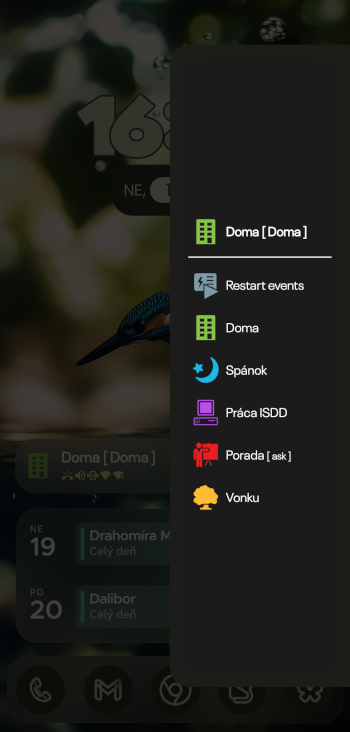
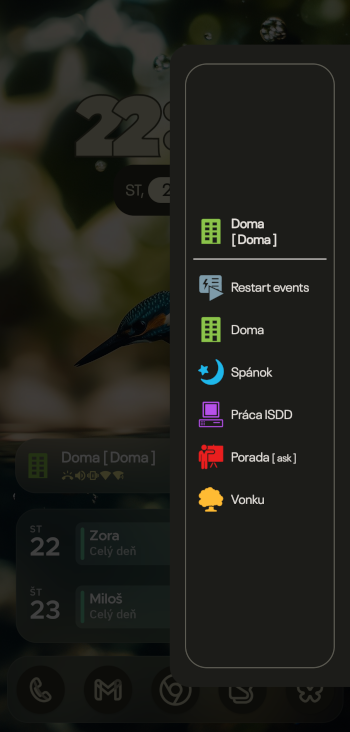
New version 7.0.2.

diff --git a/docs/FDroid_ChangeLog_SK.html b/docs/FDroid_ChangeLog_SK.html
@@ -7,43 +7,42 @@
 
 <h1 id="changelog">PhoneProfilesPlus Zoznam zmien</h1>
 
-<h2 id="version2">Verzia: 7.0.1</h2>
+<h2 id="version2">Verzia: 7.0.2</h2>
 
 <ul lang="en">
-    <li>Add: "Force stop applications" with root.</li>
-    <li>Add: "Use dynamic color for indicator" to draw indicators with dynamic color if global "Use dynamic colors" is disabled. Widget One row and List.</li>
-    <li>Add: New parameter into Settings/Editor: "Hide event details".</li>
-    <li>Add: New parameter into Settings/Editor: "Hide event details for "Start order"".</li>
-    <li>Change: Removed splash screen at start of Editor.</li>
-    <li>Change: Acronyms strings changed to icons.</li>
-    <li>Change: "Screen timeout" profile parameter for OnePlus without Shizuku.</li>
-    <li>Change: Install PPP from installed store also for critical PPP version.</li>
-    <li>Change: Removed Twitter/X from support menus and README.md.</li>
-    <li>Change: Added Mastodon into README.md</li>
-    <li>Change: Added icons in "Support" menu items.</li>
-    <li>Change: Added icons in "Check app. releases" menu items.</li>
-    <li>Change: Allow "Notification sensor" when only application is configured (not needed is "Check text").</li>
-    <li>Change: "Notification sensor", fixed "Check text".</li>
-    <li>Change: "Switch profiles" into icon widget when are configured only 2 profiles.</li>
-    <li>Change: Delay for start of BT connected devices detector when is started from broadcast.</li>
-    <li>Change: Increased size of preference titles.</li>
-    <li>Change: Long click to Tasker command in Important info -> direct copy to clipboard.</li>
-    <li>Change: Reverted back height of PPP notification for Samsung devices in Amdroid 14+</li>
-    <li>Change: "Activity log"/"Help" as activity.</li>
-    <li>Change: Widgets: Rounded corners radius + opaqueness of background for API >= 31.</li>
-    <li>Change: Widgets: Added parameter "Use dynamic colors" for preferences indicator when global "Dynamic colors" is disabled.</li>
-    <li>Change: Call "Request ignore battery optimizations" from Settings/System/Battery optimization, if is not set.</li>
-    <li>Change: Vertically center of profile name in Activator header, if preferences indicator is disabled.</li>
-    <li>Change: Better detection of drag handle click.</li>
-    <li>Change: Added background dim for popup windows.</li>
-    <li>Change: Small changes in GUI.</li>
-    <li>Fix: "Call screening" sensor block calls, even when event is not running.</li>
-    <li>Fix: Animation of open/close dialogs.</li>
-    <li>Fix: Bluetooth enable/disable.</li>
-    <li>Fix: NFC enable/disable not working in Android 14.</li>
-    <li>Fix: Color of preference values in PPP Settings.</li>
-    <li>Fix: Maybe fixed bad notification exception at first PPP start.</li>
-    <li>Fix: Popup windows in API level < 30.</li>
+    <li>Add: Panel widget. Removed Samsung Edge panel.</li>
+    <li>Change: Call of BT detector at screen on.</li>
+    <li>Change: Better BT connected devices detection for disconnection.</li>
+    <li>Change: Call of "isConnected" in BT connected devices detector after 5 seconds. Maybe it is fix for not detected some BT devices.</li>
+    <li>Change: Increased speed of profile activation.</li>
+    <li>Change: Support for Smart Launcher rounded corners in widgets.</li>
+    <li>Change: Enabled rounded corners radius for SmartLauncher.</li>
+    <li>Change: Rounded corners radius up to 32 (for Smart Launcher support).</li>
+    <li>Change: Help popup for custom profile icon - icons from theme pack applicaitons. Added is link for download "ThemeX: Extract Launcher Theme" from APKPure.</li>
+    <li>Change: Added NOTE about special parameters for USB debugging, for some devices into doc files.</li>
+    <li>Change: Better show,hide header and bottom toolbar at scroll in Editor.</li>
+    <li>Change: GUI components size different for landscape orientation.</li>
+    <li>Change: Small GUI changes.</li>
+    <li>Change: Changes in widgets.</li>
+    <li>Change: Removed toolbar from Location editor.</li>
+    <li>Change: Location editor - display map immediately at start od editor.</li>
+    <li>Change: Show dialog about offline device status in Location editor.</li>
+    <li>Change: Better functionality of "Rename with address" button in Location editor.</li>
+    <li>Change: Empty line in preference summary changed to dots.</li>
+    <li>Change: Permanent display also thumb of scrollbars.</li>
+    <li>Change: "Disable fade scrollbar" moved from components to styles. This allows scrollbars permanently visible also in spinners and menus.</li>
+    <li>Change: Do not rotate to default orientation if is required to lock orientation change.</li>
+    <li>Change: Increased max. log file size.</li>
+    <li>Change: Do not show Privacy Policy for Huawei devices. PPP is not upgraded in Huawei App Gallery.</li>
+    <li>Fix: Not working good BT van connection.</li>
+    <li>Fix: Fixed not refreshed Tones dialog after grant permission.</li>
+    <li>Fix: Not disabled buttons in Mobile cells registration dialog at its start.</li>
+    <li>Fix: Not deleted red text after deletion of profile, event with errors.</li>
+    <li>Fix: Maybe fixed draw of PPP notification at first start.</li>
+    <li>Fix: Restart events not working properly in specific situations.</li>
+    <li>Fix: Location preference dialog GUI.</li>
+    <li>Fix: WindowLeak exception generated for dialogs in orientation change.</li>
+    <li>Fix: Undo in profile duration and event end.</li>
 </ul>
 
 <ul>
@@ -55,7 +54,7 @@
 </ul>
 
 <p>
-    <a href="https://github.com/henrichg/PhoneProfilesPlus/releases/tag/7.0.1">Informácie o vydaní na GitHub.</a>
+    <a href="https://github.com/henrichg/PhoneProfilesPlus/releases/tag/7.0.2">Informácie o vydaní na GitHub.</a>
 </p>
 
 </body>

diff --git a/docs/FDroid_ChangeLog_CS.html b/docs/FDroid_ChangeLog_CS.html
@@ -7,43 +7,42 @@
 
 <h1 id="changelog">PhoneProfilesPlus Seznam změn</h1>
 
-<h2 id="version2">Verze: 7.0.1</h2>
+<h2 id="version2">Verze: 7.0.2</h2>
 
 <ul lang="en">
-    <li>Add: "Force stop applications" with root.</li>
-    <li>Add: "Use dynamic color for indicator" to draw indicators with dynamic color if global "Use dynamic colors" is disabled. Widget One row and List.</li>
-    <li>Add: New parameter into Settings/Editor: "Hide event details".</li>
-    <li>Add: New parameter into Settings/Editor: "Hide event details for "Start order"".</li>
-    <li>Change: Removed splash screen at start of Editor.</li>
-    <li>Change: Acronyms strings changed to icons.</li>
-    <li>Change: "Screen timeout" profile parameter for OnePlus without Shizuku.</li>
-    <li>Change: Install PPP from installed store also for critical PPP version.</li>
-    <li>Change: Removed Twitter/X from support menus and README.md.</li>
-    <li>Change: Added Mastodon into README.md</li>
-    <li>Change: Added icons in "Support" menu items.</li>
-    <li>Change: Added icons in "Check app. releases" menu items.</li>
-    <li>Change: Allow "Notification sensor" when only application is configured (not needed is "Check text").</li>
-    <li>Change: "Notification sensor", fixed "Check text".</li>
-    <li>Change: "Switch profiles" into icon widget when are configured only 2 profiles.</li>
-    <li>Change: Delay for start of BT connected devices detector when is started from broadcast.</li>
-    <li>Change: Increased size of preference titles.</li>
-    <li>Change: Long click to Tasker command in Important info -> direct copy to clipboard.</li>
-    <li>Change: Reverted back height of PPP notification for Samsung devices in Amdroid 14+</li>
-    <li>Change: "Activity log"/"Help" as activity.</li>
-    <li>Change: Widgets: Rounded corners radius + opaqueness of background for API >= 31.</li>
-    <li>Change: Widgets: Added parameter "Use dynamic colors" for preferences indicator when global "Dynamic colors" is disabled.</li>
-    <li>Change: Call "Request ignore battery optimizations" from Settings/System/Battery optimization, if is not set.</li>
-    <li>Change: Vertically center of profile name in Activator header, if preferences indicator is disabled.</li>
-    <li>Change: Better detection of drag handle click.</li>
-    <li>Change: Added background dim for popup windows.</li>
-    <li>Change: Small changes in GUI.</li>
-    <li>Fix: "Call screening" sensor block calls, even when event is not running.</li>
-    <li>Fix: Animation of open/close dialogs.</li>
-    <li>Fix: Bluetooth enable/disable.</li>
-    <li>Fix: NFC enable/disable not working in Android 14.</li>
-    <li>Fix: Color of preference values in PPP Settings.</li>
-    <li>Fix: Maybe fixed bad notification exception at first PPP start.</li>
-    <li>Fix: Popup windows in API level < 30.</li>
+    <li>Add: Panel widget. Removed Samsung Edge panel.</li>
+    <li>Change: Call of BT detector at screen on.</li>
+    <li>Change: Better BT connected devices detection for disconnection.</li>
+    <li>Change: Call of "isConnected" in BT connected devices detector after 5 seconds. Maybe it is fix for not detected some BT devices.</li>
+    <li>Change: Increased speed of profile activation.</li>
+    <li>Change: Support for Smart Launcher rounded corners in widgets.</li>
+    <li>Change: Enabled rounded corners radius for SmartLauncher.</li>
+    <li>Change: Rounded corners radius up to 32 (for Smart Launcher support).</li>
+    <li>Change: Help popup for custom profile icon - icons from theme pack applicaitons. Added is link for download "ThemeX: Extract Launcher Theme" from APKPure.</li>
+    <li>Change: Added NOTE about special parameters for USB debugging, for some devices into doc files.</li>
+    <li>Change: Better show,hide header and bottom toolbar at scroll in Editor.</li>
+    <li>Change: GUI components size different for landscape orientation.</li>
+    <li>Change: Small GUI changes.</li>
+    <li>Change: Changes in widgets.</li>
+    <li>Change: Removed toolbar from Location editor.</li>
+    <li>Change: Location editor - display map immediately at start od editor.</li>
+    <li>Change: Show dialog about offline device status in Location editor.</li>
+    <li>Change: Better functionality of "Rename with address" button in Location editor.</li>
+    <li>Change: Empty line in preference summary changed to dots.</li>
+    <li>Change: Permanent display also thumb of scrollbars.</li>
+    <li>Change: "Disable fade scrollbar" moved from components to styles. This allows scrollbars permanently visible also in spinners and menus.</li>
+    <li>Change: Do not rotate to default orientation if is required to lock orientation change.</li>
+    <li>Change: Increased max. log file size.</li>
+    <li>Change: Do not show Privacy Policy for Huawei devices. PPP is not upgraded in Huawei App Gallery.</li>
+    <li>Fix: Not working good BT van connection.</li>
+    <li>Fix: Fixed not refreshed Tones dialog after grant permission.</li>
+    <li>Fix: Not disabled buttons in Mobile cells registration dialog at its start.</li>
+    <li>Fix: Not deleted red text after deletion of profile, event with errors.</li>
+    <li>Fix: Maybe fixed draw of PPP notification at first start.</li>
+    <li>Fix: Restart events not working properly in specific situations.</li>
+    <li>Fix: Location preference dialog GUI.</li>
+    <li>Fix: WindowLeak exception generated for dialogs in orientation change.</li>
+    <li>Fix: Undo in profile duration and event end.</li>
 </ul>
 
 <ul>
@@ -55,7 +54,7 @@
 </ul>
 
 <p>
-    <a href="https://github.com/henrichg/PhoneProfilesPlus/releases/tag/7.0.1">Informace o vydání na GitHub.</a>
+    <a href="https://github.com/henrichg/PhoneProfilesPlus/releases/tag/7.0.2">Informace o vydání na GitHub.</a>
 </p>
 
 </body>

diff --git a/docs/FDroid_ChangeLog.html b/docs/FDroid_ChangeLog.html
@@ -7,43 +7,42 @@
 
 <h1 id="changelog">PhoneProfilesPlus Changelog</h1>
 
-<h2 id="version2">Version: 7.0.1</h2>
+<h2 id="version2">Version: 7.0.2</h2>
 
 <ul>
-    <li>Add: "Force stop applications" with root.</li>
-    <li>Add: "Use dynamic color for indicator" to draw indicators with dynamic color if global "Use dynamic colors" is disabled. Widget One row and List.</li>
-    <li>Add: New parameter into Settings/Editor: "Hide event details".</li>
-    <li>Add: New parameter into Settings/Editor: "Hide event details for "Start order"".</li>
-    <li>Change: Removed splash screen at start of Editor.</li>
-    <li>Change: Acronyms strings changed to icons.</li>
-    <li>Change: "Screen timeout" profile parameter for OnePlus without Shizuku.</li>
-    <li>Change: Install PPP from installed store also for critical PPP version.</li>
-    <li>Change: Removed Twitter/X from support menus and README.md.</li>
-    <li>Change: Added Mastodon into README.md</li>
-    <li>Change: Added icons in "Support" menu items.</li>
-    <li>Change: Added icons in "Check app. releases" menu items.</li>
-    <li>Change: Allow "Notification sensor" when only application is configured (not needed is "Check text").</li>
-    <li>Change: "Notification sensor", fixed "Check text".</li>
-    <li>Change: "Switch profiles" into icon widget when are configured only 2 profiles.</li>
-    <li>Change: Delay for start of BT connected devices detector when is started from broadcast.</li>
-    <li>Change: Increased size of preference titles.</li>
-    <li>Change: Long click to Tasker command in Important info -> direct copy to clipboard.</li>
-    <li>Change: Reverted back height of PPP notification for Samsung devices in Amdroid 14+</li>
-    <li>Change: "Activity log"/"Help" as activity.</li>
-    <li>Change: Widgets: Rounded corners radius + opaqueness of background for API >= 31.</li>
-    <li>Change: Widgets: Added parameter "Use dynamic colors" for preferences indicator when global "Dynamic colors" is disabled.</li>
-    <li>Change: Call "Request ignore battery optimizations" from Settings/System/Battery optimization, if is not set.</li>
-    <li>Change: Vertically center of profile name in Activator header, if preferences indicator is disabled.</li>
-    <li>Change: Better detection of drag handle click.</li>
-    <li>Change: Added background dim for popup windows.</li>
-    <li>Change: Small changes in GUI.</li>
-    <li>Fix: "Call screening" sensor block calls, even when event is not running.</li>
-    <li>Fix: Animation of open/close dialogs.</li>
-    <li>Fix: Bluetooth enable/disable.</li>
-    <li>Fix: NFC enable/disable not working in Android 14.</li>
-    <li>Fix: Color of preference values in PPP Settings.</li>
-    <li>Fix: Maybe fixed bad notification exception at first PPP start.</li>
-    <li>Fix: Popup windows in API level < 30.</li>
+    <li>Add: Panel widget. Removed Samsung Edge panel.</li>
+    <li>Change: Call of BT detector at screen on.</li>
+    <li>Change: Better BT connected devices detection for disconnection.</li>
+    <li>Change: Call of "isConnected" in BT connected devices detector after 5 seconds. Maybe it is fix for not detected some BT devices.</li>
+    <li>Change: Increased speed of profile activation.</li>
+    <li>Change: Support for Smart Launcher rounded corners in widgets.</li>
+    <li>Change: Enabled rounded corners radius for SmartLauncher.</li>
+    <li>Change: Rounded corners radius up to 32 (for Smart Launcher support).</li>
+    <li>Change: Help popup for custom profile icon - icons from theme pack applicaitons. Added is link for download "ThemeX: Extract Launcher Theme" from APKPure.</li>
+    <li>Change: Added NOTE about special parameters for USB debugging, for some devices into doc files.</li>
+    <li>Change: Better show,hide header and bottom toolbar at scroll in Editor.</li>
+    <li>Change: GUI components size different for landscape orientation.</li>
+    <li>Change: Small GUI changes.</li>
+    <li>Change: Changes in widgets.</li>
+    <li>Change: Removed toolbar from Location editor.</li>
+    <li>Change: Location editor - display map immediately at start od editor.</li>
+    <li>Change: Show dialog about offline device status in Location editor.</li>
+    <li>Change: Better functionality of "Rename with address" button in Location editor.</li>
+    <li>Change: Empty line in preference summary changed to dots.</li>
+    <li>Change: Permanent display also thumb of scrollbars.</li>
+    <li>Change: "Disable fade scrollbar" moved from components to styles. This allows scrollbars permanently visible also in spinners and menus.</li>
+    <li>Change: Do not rotate to default orientation if is required to lock orientation change.</li>
+    <li>Change: Increased max. log file size.</li>
+    <li>Change: Do not show Privacy Policy for Huawei devices. PPP is not upgraded in Huawei App Gallery.</li>
+    <li>Fix: Not working good BT van connection.</li>
+    <li>Fix: Fixed not refreshed Tones dialog after grant permission.</li>
+    <li>Fix: Not disabled buttons in Mobile cells registration dialog at its start.</li>
+    <li>Fix: Not deleted red text after deletion of profile, event with errors.</li>
+    <li>Fix: Maybe fixed draw of PPP notification at first start.</li>
+    <li>Fix: Restart events not working properly in specific situations.</li>
+    <li>Fix: Location preference dialog GUI.</li>
+    <li>Fix: WindowLeak exception generated for dialogs in orientation change.</li>
+    <li>Fix: Undo in profile duration and event end.</li>
 </ul>
 
 <ul>
@@ -55,7 +54,7 @@
 </ul>
 
 <p>
-    <a href="https://github.com/henrichg/PhoneProfilesPlus/releases/tag/7.0.1">Release information on GitHub.</a>
+    <a href="https://github.com/henrichg/PhoneProfilesPlus/releases/tag/7.0.2">Release information on GitHub.</a>
 </p>
 
 </body>

diff --git a/README.md b/README.md
@@ -6,7 +6,7 @@
 PhoneProfilesPlus (PPP)
 ===========================
 
-[![version](https://img.shields.io/badge/version-7.0.1-blue)](https://github.com/henrichg/PhoneProfilesPlus/releases/tag/7.0.1)
+[![version](https://img.shields.io/badge/version-7.0.2-blue)](https://github.com/henrichg/PhoneProfilesPlus/releases/tag/7.0.2)
 [![Platform](https://img.shields.io/badge/platform-android-green.svg)](http://developer.android.com/index.html)
 [![License](https://img.shields.io/hexpm/l/plug.svg)](https://github.com/henrichg/PhoneProfilesPlus/blob/master/LICENSE)
 [![Crowdin](https://badges.crowdin.net/phoneprofilesplus/localized.svg)](https://crowdin.com/project/phoneprofilesplus)\

diff --git a/docs/releases-debug.md b/docs/releases-debug.md
@@ -1,1 +1,1 @@
-@@@ppp-release:7.0.1:7235:normal***@@@
+@@@ppp-release:7.0.2:7260:normal***@@@

diff --git a/docs/releases.md b/docs/releases.md
@@ -1,1 +1,1 @@
-@@@ppp-release:7.0.1:7235:normal***@@@
+@@@ppp-release:7.0.2:7260:normal***@@@
